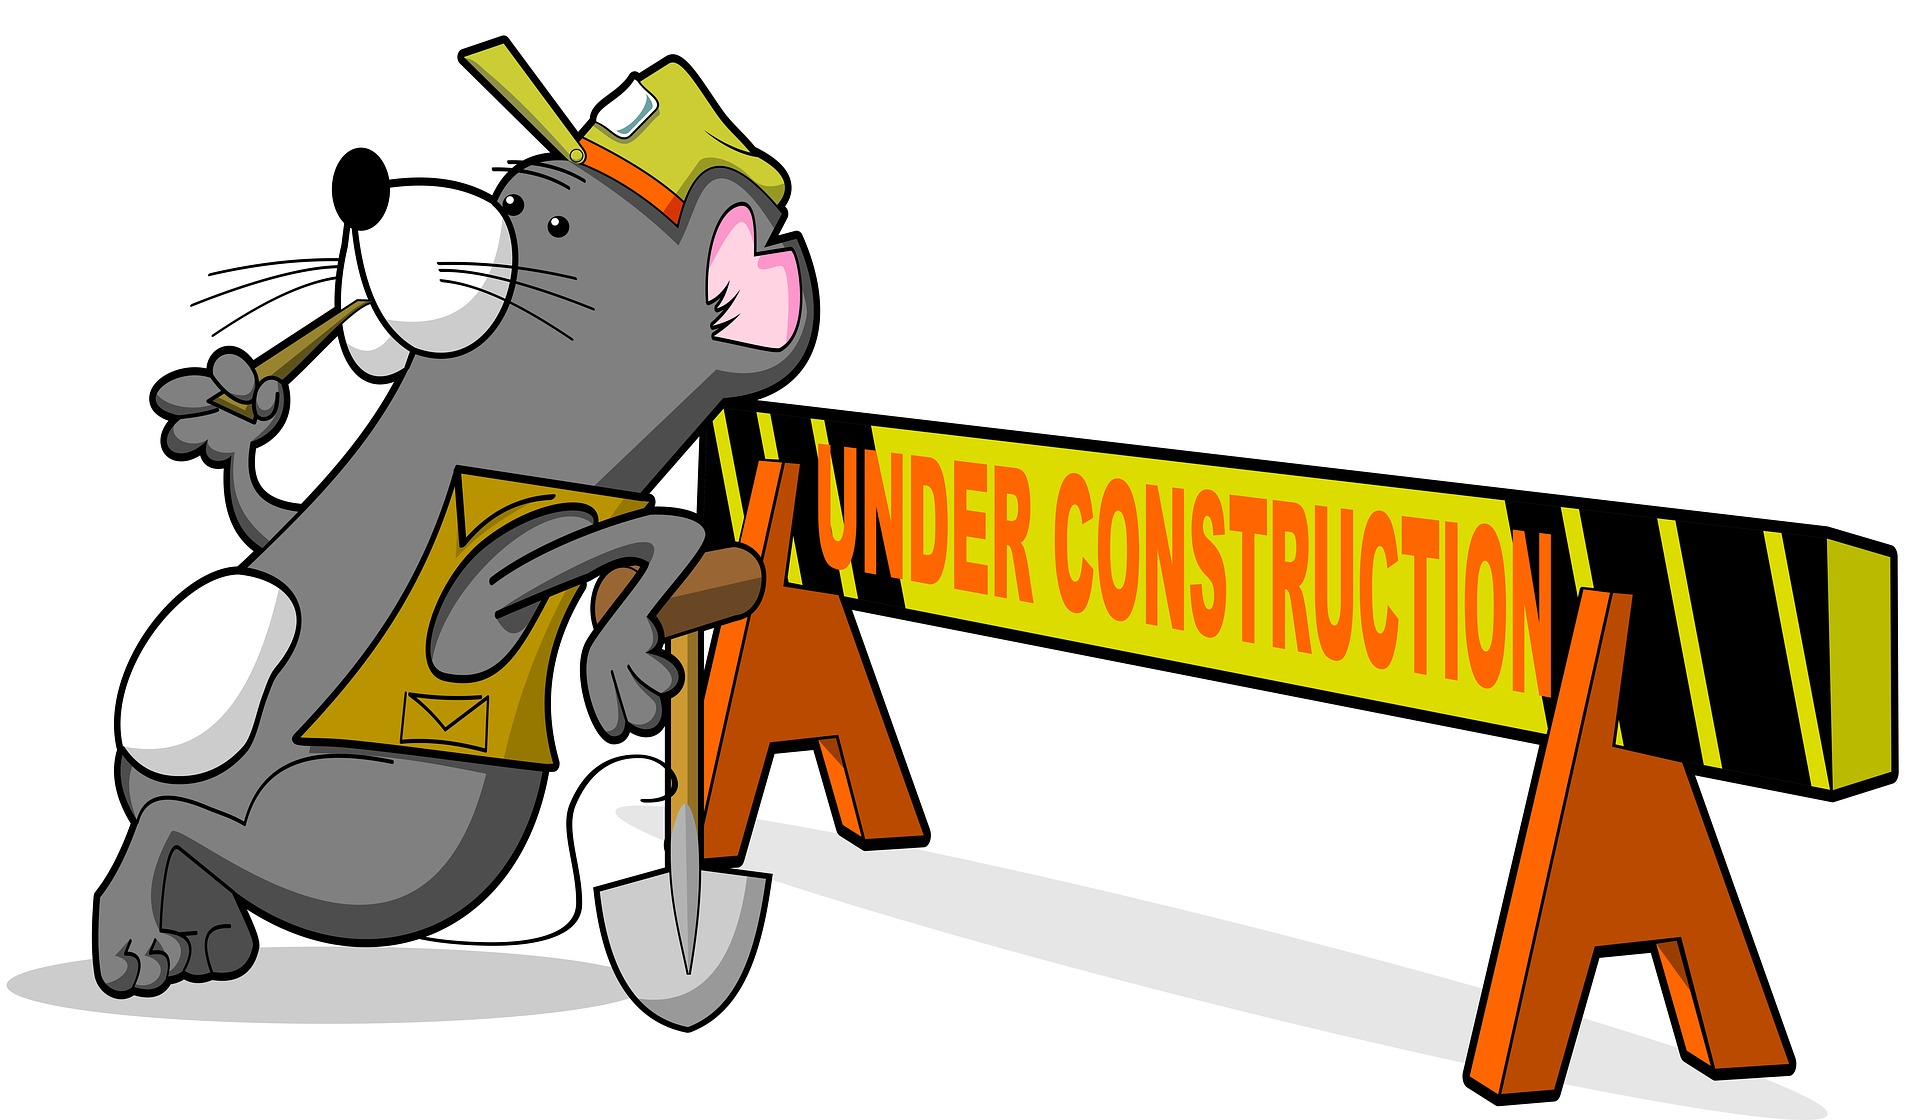
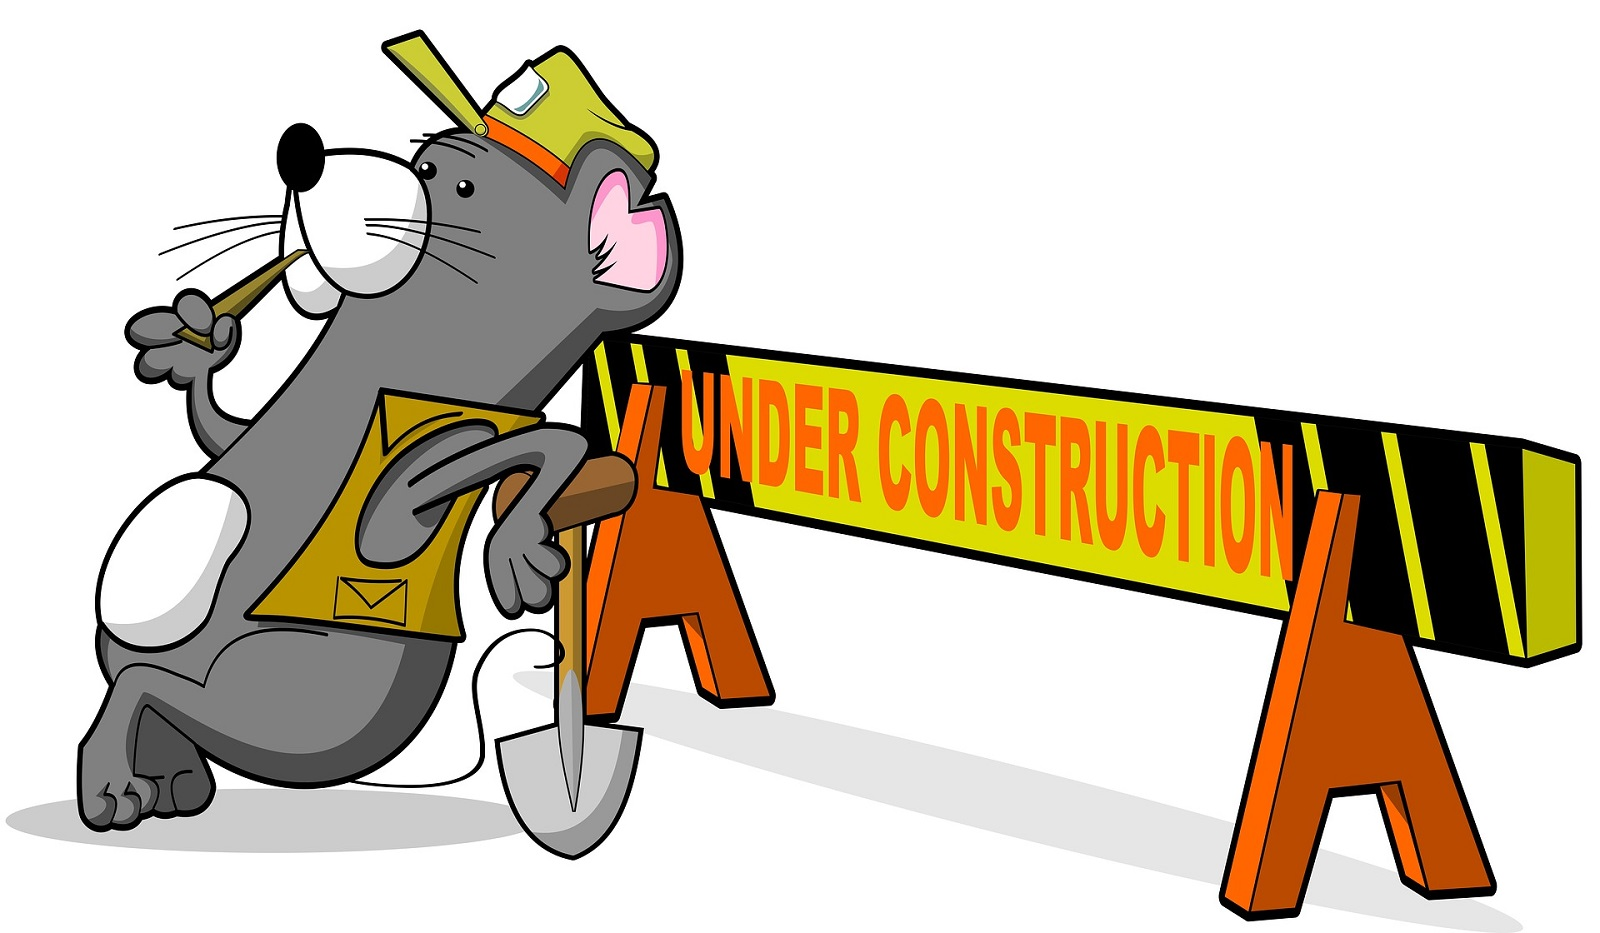
Resize uc

Changed region(s): [[0.2812, 0.1243, 0.3125, 0.1554]]

diff --git a/_README.md b/_README.md
@@ -1,156 +1,1 @@
-# Journal by JekyllThemes.io – Instructions
-
-If you have any questions or feedback about the theme, don't hesitate to reach out to hello@jekyllthemes.io for 1-to-1 support direct from the developers.
-
----
-
-## Getting started
-
-Copy the theme files to your website directory.
-
-To run the theme locally, navigate to the theme directory in your terminal and run `bundle install` to install the theme's dependencies. Then run `jekyll serve` to start the Jekyll server.
-
----
-
-## Jekyll basics
-
-If you're not familiar with how Jekyll works, check out [jekyllrb.com](https://jekyllrb.com/) for all the details, 
-or read up on just the basics of [front matter](https://jekyllrb.com/docs/frontmatter/), [writing posts](https://jekyllrb.com/docs/posts/), and [creating pages](https://jekyllrb.com/docs/pages/).
-
----
-
-## Customizing the theme
-
-Index comes packed with lots of options to let you customize the theme.
-
----
-
-### The `_config.yml` file
-
-The main things you might need to change here are:
-
-`site: Journal Jekyll Theme` – change this to your website's name
-
-`url:` – the full URL that your site will be hosted at, e.g. https://your-domain.com
-
-`baseurl:` – add a base URL here if you will be publishing the site inside a folder, e.g. https://your-domain.com/project/ – or if you're hosting it as a 'project page' on GitHub Pages. Example: `baseurl: /project`
-
-When using baseurl, you should reference images in your post/project Frontmatter **without** the baseurl, e.g. `/images/image.jpg` but images inside the Markdown content **should include** the baseurl snippet, e.g. `{{site.baseurl}}/images/image.jpg`
-
-`paginate: 6` – change this to set the number of blog posts on each page
-
-You can also change more advanced things here like the path names, collections etc. You do not need to change any of these to achieve the same look as the demo, so best to leave everything else unless you are confident.
-
----
-
-### The `settings.yml` file
-
-You'll find this inside the `_data` folder – this is where you can set all of the theme options.
-
-**Basic settings**
-
-`site_title` – change this to your website's title. This shows up in the browser's title bar, and in the sidebar.
-`site_tagline` – change this to be a description of your site. This shows up under the title/logo in the sidebar.
-`favicon_image` – change this to the location of your favicon image, which shows up in the browser's title bar.
-
-**Header settings**
-
-`logo_image` – if you'd like to use a logo instead of plain text title in your sidebar, enter the link to it here.
-`logo_width` – set the width (in pixels) that your logo should appear at. This is useful for adding retina display support – for example if your original image is 400px wide, you could set this value to `200` to display a retina-ready image.
-`overlay_opacity` – this sets the opacity of the sidebar overlay, and when you hover over portfolio items. Use a decimal value here, e.g. `0.8` will give you 80% opacity.
-
-**Menu settings**
-
-This allows you to set the links inside your menu. Add each one as a list item with a `title` and `url`. When hosting on GitHub Pages, make sure you leave a trailing `/` at the end of links to category pages (e.g. `/blog/` or `/projects/`).
-
-**Grid settings**
-
-`grid_spacing` – this sets the amount of spacing (in pixels) between each item in grid image galleries.
-
-**Contact settings**
-
-The theme comes with a pre-made contact form that you can use with [Formspree](https://formspree.io/create/jekyllthemes), which is free for up to 50 submissions per month. They also have two great paid plans that offer advanced features. Use the link above to set up your account and then paste the 'endpoint' integration code into the theme settings:
-
-`form_action` – this is the form endpoint attribute that you get from FormSpree, for example `https://formspree.io/abcdefgh`
-`confirmation_url` – by default the user is shown a default Formspree thank you page. If you have a premium plan, you can use this setting to provide an alternative URL for that page, for example `/thanks` – we have included a basic thank you page with the theme.
-`email_subject` – choose the subject of the email you receive from Formspree.
-`send_button_text` – change the text used on the form submit button.
-
-Hint: you can add the contact form to any page of your site using the include – `{% include contact-form.html %}` – for example if you wanted to have the contact form on your About page.
-
-**Social settings**
-
-Here you can add links to your profiles on social networks, and they'll be shown in the sidebar. Simply add your URL next to the ones you want to show.
-
-**Color settings**
-
-Here you can set all the different colors used by the theme. Try them out and find the color pallette that works for you!
-
-**Font settings**
-
-`font_embed` – add an embed code from an external font service. This allows you to use services like Google Fonts or Typekit.
-`title_font` – set the CSS name for the font used on titles.
-`body_font` – set the CSS anme for the font used for body text.
-`regular_weight` – set the font weight for regular styled text.
-`bold_weight` – set the font weight for bold styled text.
-
-Below these options, you'll see options for each typographical element used in the theme. For each, you can set the following options:
-
-`small_size` – the size (in pixels) used for this element on small size screens like mobile phones.
-`medium_size` – the size (in pixels) used for this element on medium size screens like tablets.
-`large_size` – the size (in pixels) used for this element on largers screens like laptops and desktops.
-`weight` – the font weight for this element.
-`letter_spacing` – the letter spacing (in ems) for this element.
-`line_height` – the line-height (in decimals) for this element.
-
-**Advanced options**
-
-`ajax_loading` – use `true` to enable Ajax loading throughout your site. Use `false` to disable it and load pages normally – this can be helpful if you're adding plugins or other javascript to your pages.
-`analytics_code` – use this option to add your Google Analytics code.
-`custom_styles` – use this option to add custom CSS styles to the theme.
-`header_js` – use this option to insert javascript into the header of the page.
-`footer_js` – use this option to insert javascript at the end of the page.
-
----
-
-### Images
-
-Inside the `/images/` folder you'll find a few images included with the theme.
-
-The images in the `/demo/` subfolder are used in the demo project, post and page – you can delete those if you don't need them.
-
-`favicon.png` – you should replace this with the favicon image you'd like to use for your website.
-
----
-
-## Main pages
-
-The theme comes with some pages set up ready for your content.
-
-### The home page – `/index.html`
-
-This is your website home page, showing your latest blog posts. You can edit some details in the Front Matter at the top of the page:
-
-`title` – this sets the page title, which shows up in the browser's title bar and on search engine results, social shares etc.
-`description` – this sets the page meta description, which shows up on search engine results, social shares etc.
-`featured_image` – this sets the page meta image, which shows up on social shares.
-
-### The projects page – `/projects/index.html`
-
-This is the blog listing page, which shows all your project posts. You can edit the same things as on the home page to customise it for your website, and also a `subtitle` field below the main page title.
-
----
-
-## Projects, posts and pages
-
-These control the main content of your website, and are found inside the `_projects`, `_posts` and `_pages` folders.
-
-Take a look at the demo content inside each folder for full descriptions on what you can do inside these, and to use as a template for your own content.
-
----
-
-## Any questions?
-
-If you have any questions or feedback about the theme, don't hesitate to reach out to hello@jekyllthemes.io for 1-to-1 support direct from the developers!
-
-🤘
+Bramley Village Society site built from JekyllThemes Journal theme.

diff --git a/_pages/organisations.md b/_pages/organisations.md
@@ -5,6 +5,6 @@ description:
 featured_image: /images/demo/demo-portrait.jpg
 ---
 
-![]({{ site.url }}/images/under-construction.jpg)
+![]({{ site.url }}/images/showcase.jpg)
 
 Image by <a href="https://pixabay.com/users/merio-1480566/?utm_source=link-attribution&amp;utm_medium=referral&amp;utm_campaign=image&amp;utm_content=4010445">Merio</a> from <a href="https://pixabay.com/?utm_source=link-attribution&amp;utm_medium=referral&amp;utm_campaign=image&amp;utm_content=4010445">Pixabay</a>
